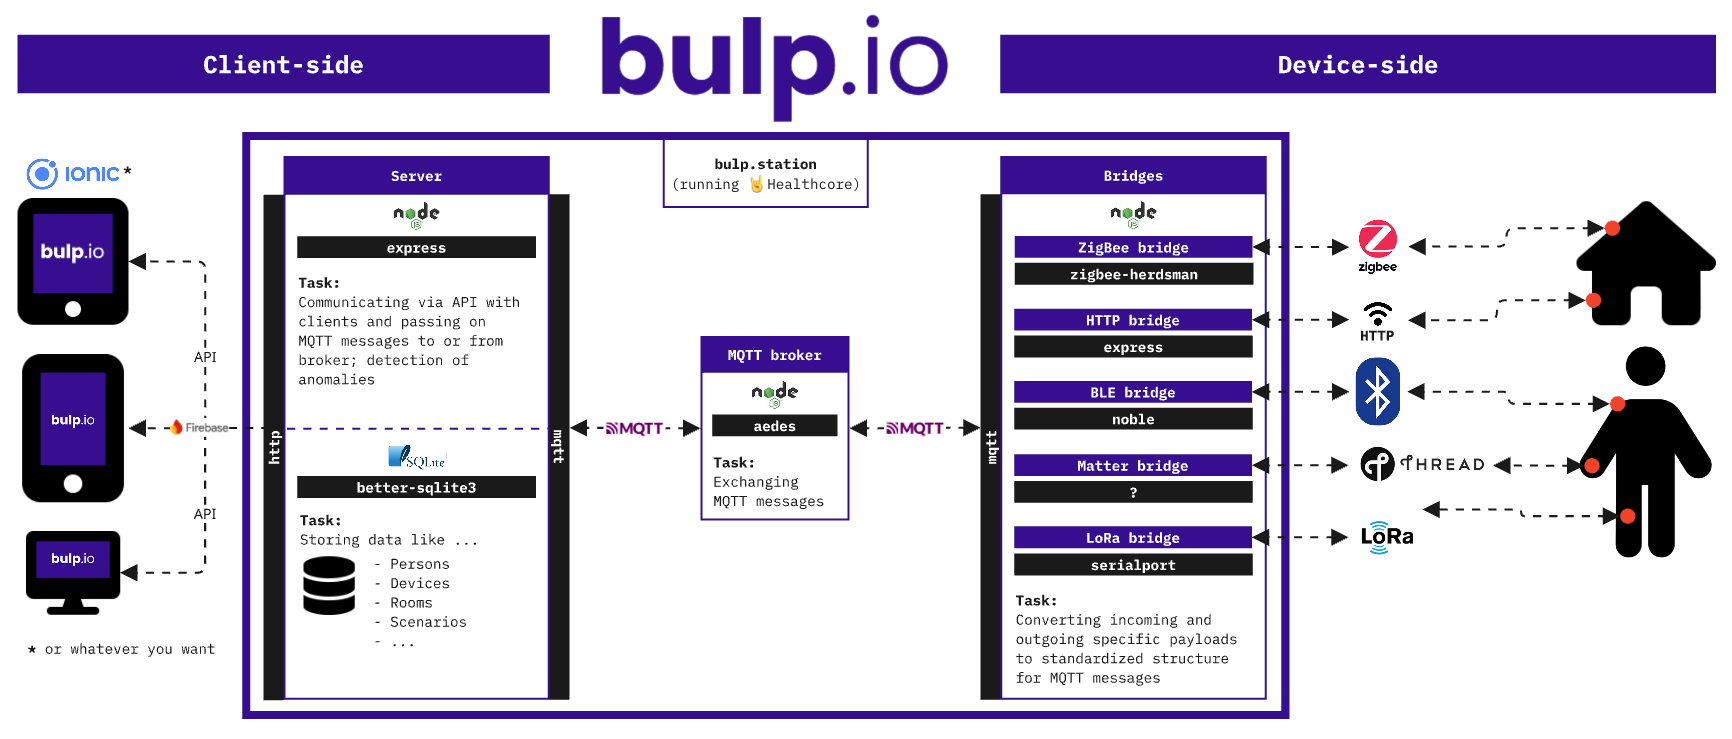
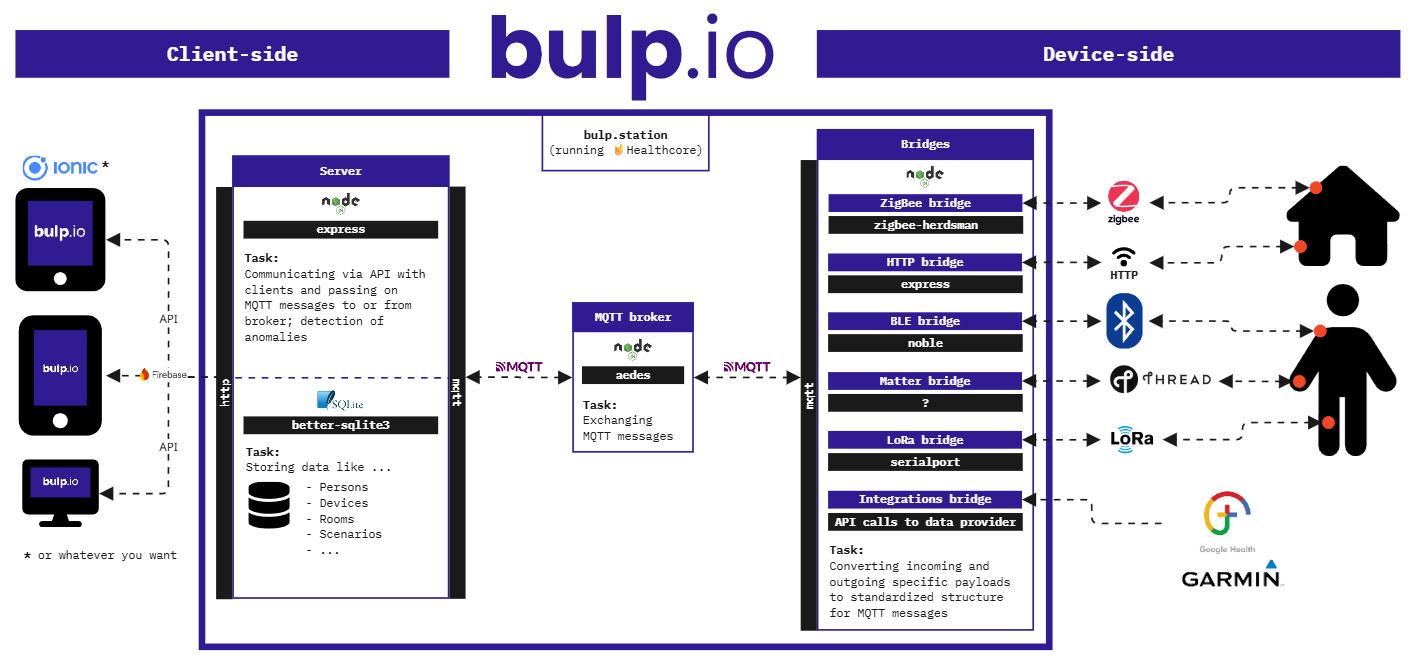
Update log output to include 'Integration' in bridge/server message and enhance boolean value normalization comments

diff --git a/config.js b/config.js
@@ -29,10 +29,10 @@ function toBool(value, defaultValue = false) {
   }
 
   const normalized = value.trim().toLowerCase();
-  if (["true", "1", "yes", "on"].includes(normalized)) {
+  if (["true", "1", "yes", "on"].includes(normalized)) { // Accept common truthy values
     return true;
   }
-  if (["false", "0", "no", "off"].includes(normalized)) {
+  if (["false", "0", "no", "off"].includes(normalized)) { // Accept common falsy values
     return false;
   }
   return defaultValue;

diff --git a/common.js b/common.js
@@ -98,7 +98,7 @@ function logoShow(bridge, port) {
     conLog("                                                                     ", "mag", false);
     conLog("  by bulp.io					                                     ", "mag", false);
     conLog("                                                                     ", "mag", false);
-    conLog("  Bridge or Server: " + bridge                                        , "mag", false);
+    conLog("  Bridge or Server or Integration: " + bridge                         , "mag", false);
     conLog("  Port: " + port                                                      , "mag", false);
     conLog("================================================================     ", "mag", false);
 }